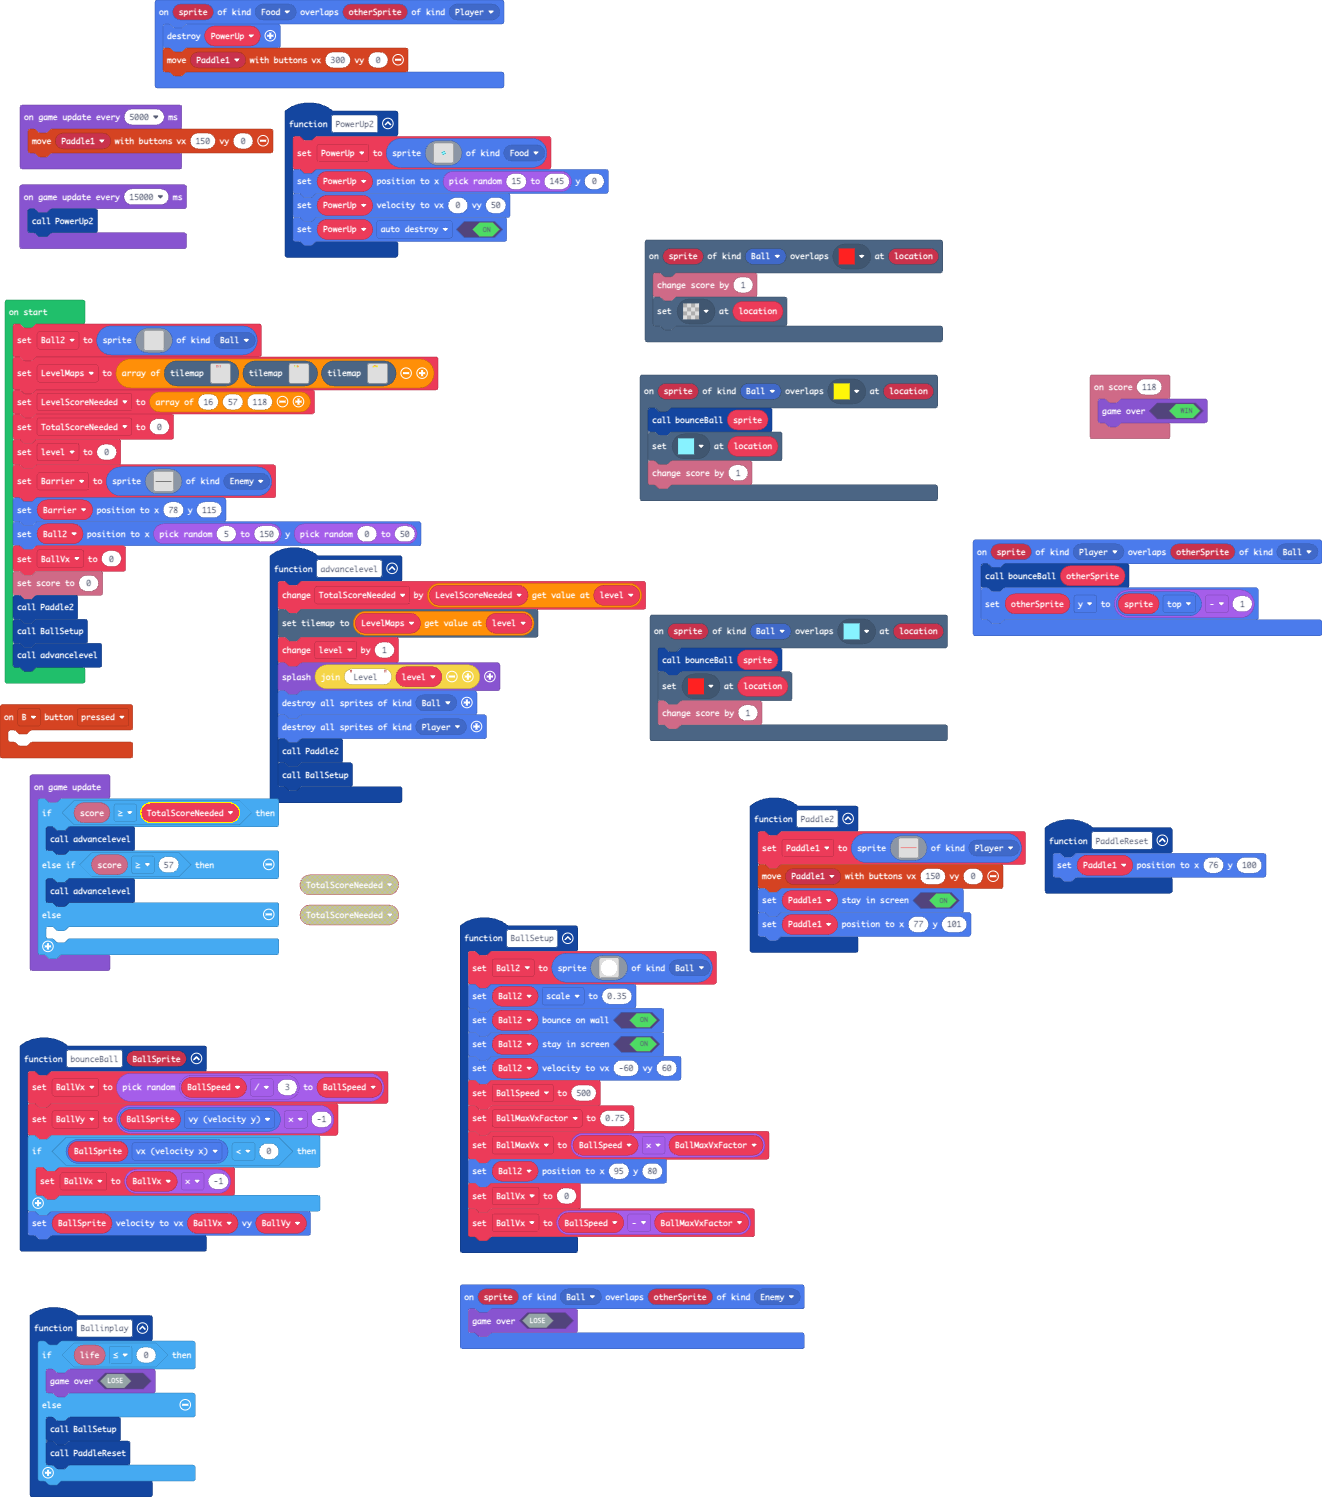
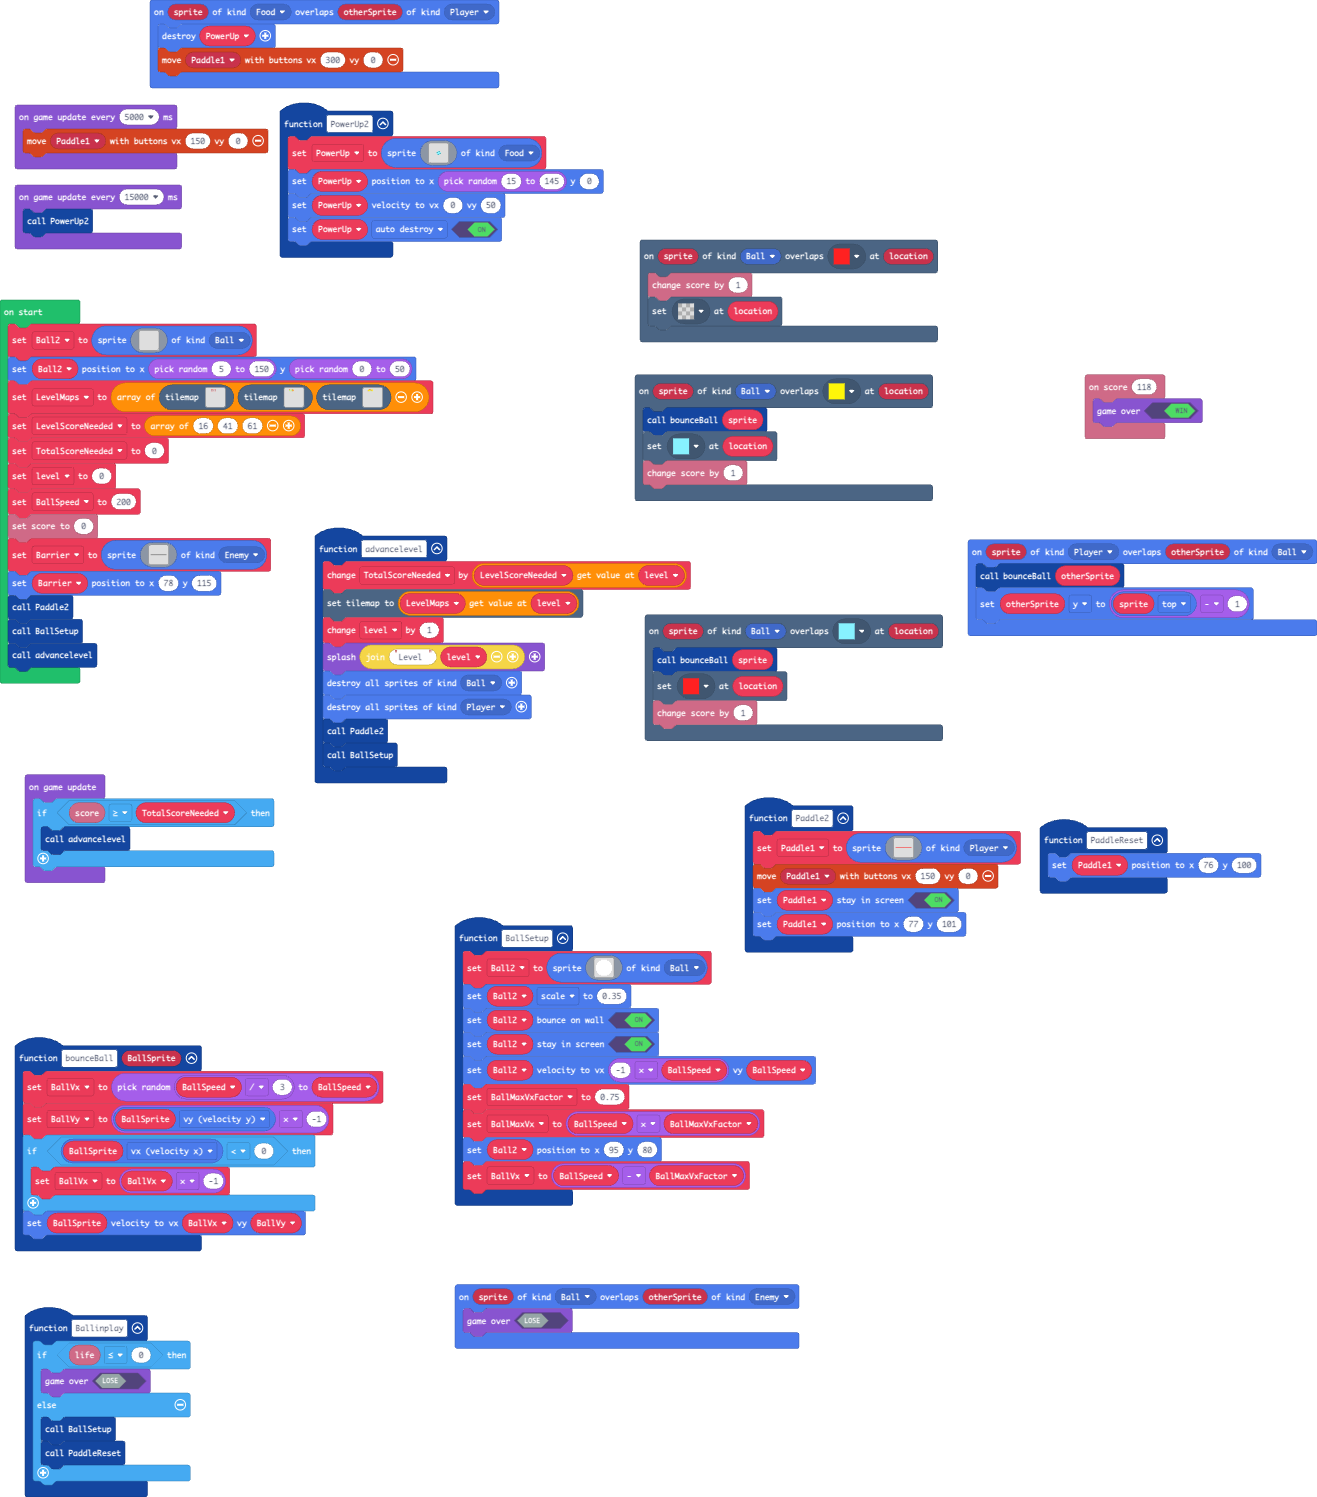
Update main.blocks, main.ts

diff --git a/main.ts b/main.ts
@@ -24,20 +24,15 @@ function BallSetup () {
     Ball2.scale = 0.35
     Ball2.setBounceOnWall(true)
     Ball2.setStayInScreen(true)
-    Ball2.setVelocity(-60, 60)
-    BallSpeed = 500
+    Ball2.setVelocity(-1 * BallSpeed, BallSpeed)
     BallMaxVxFactor = 0.75
     BallMaxVx = BallSpeed * BallMaxVxFactor
     Ball2.setPosition(95, 80)
-    BallVx = 0
     BallVx = BallSpeed - BallMaxVxFactor
 }
 sprites.onOverlap(SpriteKind.Player, SpriteKind.Ball, function (sprite, otherSprite) {
     bounceBall(otherSprite)
     otherSprite.y = sprite.top - 1
-})
-controller.B.onEvent(ControllerButtonEvent.Pressed, function () {
-	
 })
 scene.onOverlapTile(SpriteKind.Ball, assets.tile`myTile2`, function (sprite, location) {
     info.changeScoreBy(1)
@@ -129,10 +124,10 @@ function Paddle2 () {
 let PowerUp: Sprite = null
 let Paddle1: Sprite = null
 let BallVy = 0
+let BallVx = 0
 let BallMaxVx = 0
 let BallMaxVxFactor = 0
 let BallSpeed = 0
-let BallVx = 0
 let level = 0
 let LevelScoreNeeded: number[] = []
 let LevelMaps: tiles.TileMapData[] = []
@@ -155,10 +150,13 @@ Ball2 = sprites.create(img`
     . . . . . . . . . . . . . . . . 
     . . . . . . . . . . . . . . . . 
     `, SpriteKind.Ball)
+Ball2.setPosition(randint(5, 150), randint(0, 50))
 LevelMaps = [tilemap`level13`, tilemap`level0`, tilemap`level14`]
-LevelScoreNeeded = [16, 57, 118]
+LevelScoreNeeded = [16, 41, 61]
 let TotalScoreNeeded = 0
 level = 0
+BallSpeed = 200
+info.setScore(0)
 let Barrier = sprites.create(img`
     ........................................................................................................................................................................................................
     ........................................................................................................................................................................................................
@@ -178,19 +176,12 @@ let Barrier = sprites.create(img`
     ffffffffffffffffffffffffffffffffffffffffffffffffffffffffffffffffffffffffffffffffffffffffffffffffffffffffffffffffffffffffffffffffffffffffffffffffffffffffffffffffffffffffffffffffffffffffffffffffffffffff
     `, SpriteKind.Enemy)
 Barrier.setPosition(78, 115)
-Ball2.setPosition(randint(5, 150), randint(0, 50))
-BallVx = 0
-info.setScore(0)
 Paddle2()
 BallSetup()
 advancelevel()
 game.onUpdate(function () {
     if (info.score() >= TotalScoreNeeded) {
         advancelevel()
-    } else if (info.score() >= 57) {
-        advancelevel()
-    } else {
-    	
     }
 })
 game.onUpdateInterval(5000, function () {
